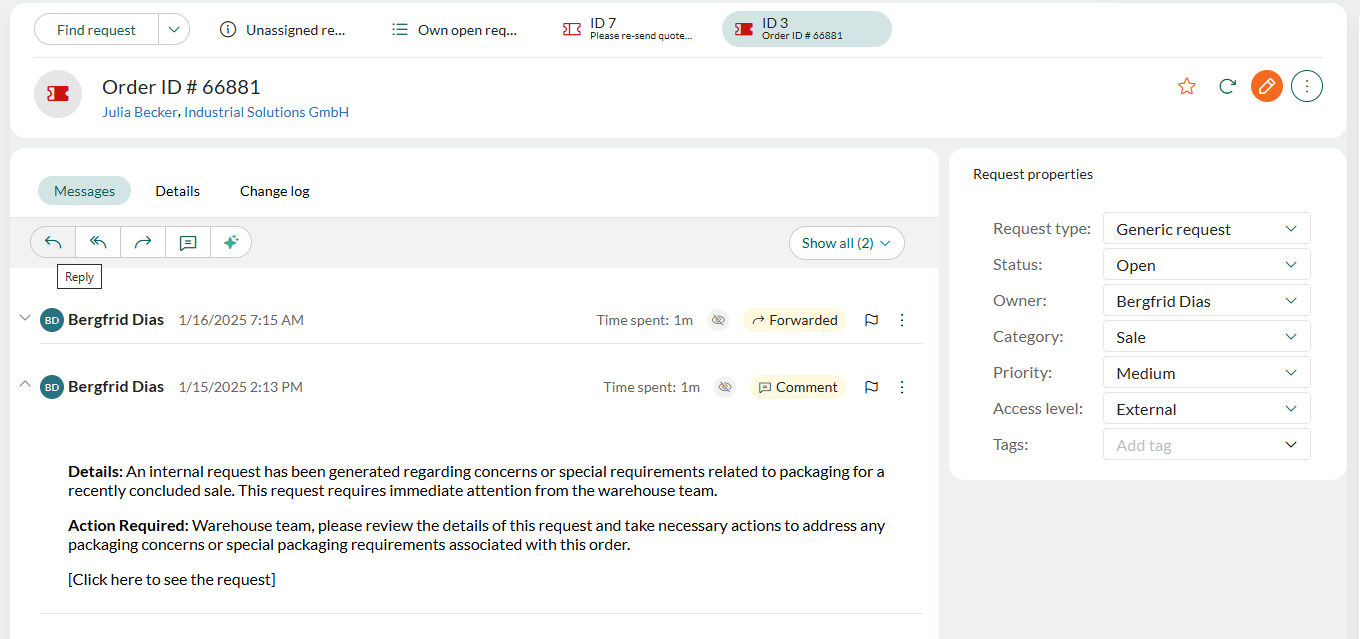
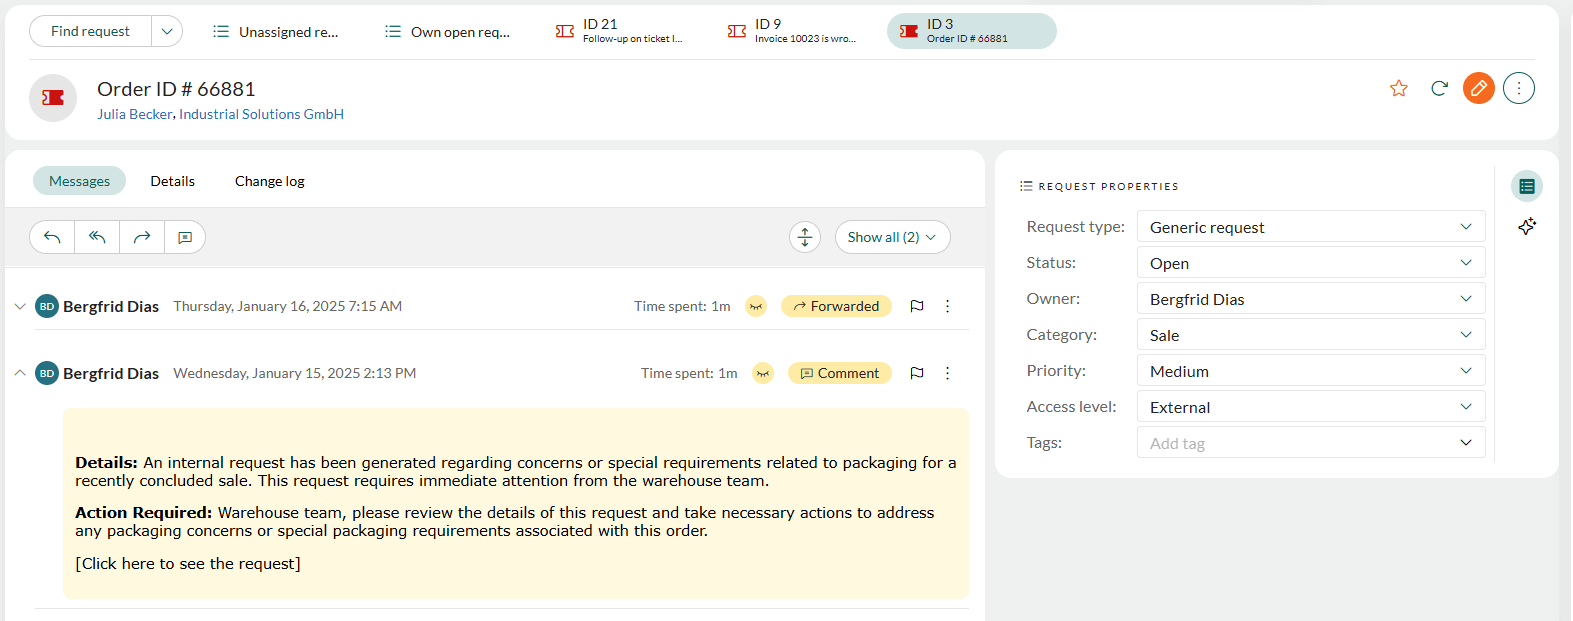
#2528 minor v11 changes in request UI (#2571)
* #2528 Add screenshot of request message filtering dropdown

* #2528 Update screenshots - reply to request

---------

diff --git a/docs/en/request/dev/index.md b/docs/en/request/dev/index.md
@@ -3,17 +3,15 @@ uid: request-overview
 title: Requests
 description: How to manage requests and enquiries in SuperOffice - create internal and external requests; respond to incoming enquiries; obtain an overview of the statuses of all requests in the CRM system.
 keywords: Service, ticket, request, inquiry, tag, category, priority, escalation, reply template, parse
-author: Bergfrid Dias
-date: 07.15.2025
-version: 10.5
+author: digitaldiina
+date: 11.28.2025
+version: 11.7
 content_type: concept
 index: true
 redirect_from: /en/request/overview
 ---
 
 # Requests
-
-![Request screen -screenshot][img1]
 
 [!include[License requirement](../../../../common/includes/req-service-essentials.md)]
 
@@ -237,6 +235,3 @@ Some parser variables that exist will not be described. These are present only f
 [23]: ../../knowledge-base/learn/reply-templates/template-variables.md#user
 [24]: ../../knowledge-base/learn/reply-templates/template-variables.md#ticket
 [25]: ../../knowledge-base/learn/reply-templates/template-variables.md#config
-
-<!-- Referenced images -->
-[img1]: ../../../media/loc/en/request/request-screen.png

diff --git a/docs/de/request/learn/flag-message.md b/docs/de/request/learn/flag-message.md
@@ -3,9 +3,9 @@ uid: help-de-request-message-flag
 title: Nachrichten nachverfolgen
 description: So behalten Sie den Überblick über Nachrichten in einer Anfrage
 keywords: Anfrage, Nachricht, Markierung, Kennzeichnung, Flagge
-author: Hanne Gunnarsson
-date: 02.11.2025
-version: 10.5.2
+author: digitaldiina
+date: 11.28.2025
+version: 11.7
 content_type: howto
 license: serviceessentials
 audience: person
@@ -32,6 +32,8 @@ Um das Auffinden und Sortieren mehrerer Nachrichten in einer Anfrage zu erleicht
 1. Wechseln Sie zur Registerkarte **Nachrichten**.
 1. Klicken Sie oben rechts auf die **Filterliste** und wählen Sie einen Filter aus. Die Nachrichten werden entsprechend gefiltert.
 
+![Options to filter list of messages on a request -screenshot][img1]
+
 ## Verwandte Inhalte
 
 * [Anfrage erstellen][2]
@@ -43,3 +45,6 @@ Um das Auffinden und Sortieren mehrerer Nachrichten in einer Anfrage zu erleicht
 [2]: create.md
 [3]: reply.md
 [4]: edit-message.md
+
+<!-- Referenced images -->
+[img1]: ../../../media/loc/en/request/filter-messages.png

diff --git a/docs/nl/request/learn/flag-message.md b/docs/nl/request/learn/flag-message.md
@@ -3,10 +3,11 @@ uid: help-nl-request-message-flag
 title: Berichten bijhouden
 description: Hoe u berichten in een verzoek kunt markeren en filteren
 keywords: verzoek, bericht, markeren, vlag
-author: Hanne Gunnarsson
-date: 03.14.2025
-version: 10.5.2
+author: digitaldiina
+date: 11.28.2025
+version: 11.7
 content_type: howto
+license: serviceessentials
 audience: person
 audience_tooltip: SuperOffice Service
 language: nl
@@ -31,6 +32,8 @@ Om het gemakkelijker te maken om meerdere berichten in een verzoek te vinden en 
 1. Klik op het tabblad **Berichten**.
 1. Klik in de rechterbovenhoek op de filterlijst en selecteer een filter. De berichten worden gefilterd.
 
+![Options to filter list of messages on a request -screenshot][img1]
+
 ## Gerelateerde inhoud
 
 * [Verzoek maken][2]
@@ -42,3 +45,6 @@ Om het gemakkelijker te maken om meerdere berichten in een verzoek te vinden en 
 [2]: create.md
 [3]: reply.md
 [4]: edit-message.md
+
+<!-- Referenced images -->
+[img1]: ../../../media/loc/en/request/filter-messages.png

diff --git a/docs/sv/request/learn/flag-message.md b/docs/sv/request/learn/flag-message.md
@@ -3,9 +3,9 @@ uid: help-sv-request-message-flag
 title: Hålla koll på meddelanden
 description: Hålla koll på meddelanden
 keywords: filtrera meddelanden, flaggknappen, ärende, meddelande, flaggat, flagga
-author: Bergfrid Dias
-date: 02.25.2025
-version: 10.5.2
+author: digitaldiina
+date: 11.28.2025
+version: 11.7
 content_type: howto
 license: serviceessentials
 audience: person
@@ -32,6 +32,8 @@ För att göra det enklare att hitta och sortera flera meddelanden i ett ärende
 1. Klicka på fliken **Meddelanden**.
 1. Klicka på filterlistan i det övre högra hörnet och välj ett filter. Meddelandena filtreras.
 
+![Options to filter list of messages on a request -screenshot][img1]
+
 ## Relaterat innehåll
 
 * [Skapa ärende][2]
@@ -43,3 +45,6 @@ För att göra det enklare att hitta och sortera flera meddelanden i ett ärende
 [2]: create.md
 [3]: reply.md
 [4]: edit-message.md
+
+<!-- Referenced images -->
+[img1]: ../../../media/loc/en/request/filter-messages.png

diff --git a/docs/no/request/learn/flag-message.md b/docs/no/request/learn/flag-message.md
@@ -3,9 +3,9 @@ uid: help-no-request-message-flag
 title: Holde oversikt over meldinger
 description: Holde oversikt over meldinger
 keywords: sak, melding, flagg
-author: Hanne Gunnarsson
-date: 02.04.2025
-version: 10.5.1
+author: digitaldiina
+date: 11.28.2025
+version: 11.7
 content_type: howto
 license: serviceessentials
 audience: person
@@ -32,6 +32,8 @@ For å gjøre det enklere å finne og sortere flere meldinger i en sak, kan du f
 1. Klikk på fanen **Meldinger**.
 1. I øvre høyre hjørne klikker du på filterlisten og velger et filter. Meldingene filtreres.
 
+![Options to filter list of messages on a request -screenshot][img1]
+
 ## Relatert innhold
 
 * [Opprette sak][2]
@@ -43,3 +45,6 @@ For å gjøre det enklere å finne og sortere flere meldinger i en sak, kan du f
 [2]: create.md
 [3]: reply.md
 [4]: edit-message.md
+
+<!-- Referenced images -->
+[img1]: ../../../media/loc/en/request/filter-messages.png

diff --git a/docs/da/request/learn/flag-message.md b/docs/da/request/learn/flag-message.md
@@ -3,9 +3,9 @@ uid: help-da-request-message-flag
 title: Hold styr på meddelelser
 description: Hold styr på meddelelser
 keywords: sag, meddelelse, flag
-author: Bergfrid Dias
-date: 03.07.2025
-version: 10.5.2
+author: digitaldiina
+date: 11.28.2025
+version: 11.7
 content_type: howto
 license: serviceessentials
 audience: person
@@ -32,6 +32,8 @@ Hvis du vil gøre det nemmere at finde og sortere flere meddelelser i en sag, ka
 1. Klik på fanen **Meddelelser**.
 1. Klik på filterlisten i øverste højre hjørne, og vælg et filter. Meddelelserne filtreres.
 
+![Options to filter list of messages on a request -screenshot][img1]
+
 ## Relateret indhold
 
 * [Opret sag][2]
@@ -43,3 +45,6 @@ Hvis du vil gøre det nemmere at finde og sortere flere meddelelser i en sag, ka
 [2]: create.md
 [3]: reply.md
 [4]: edit-message.md
+
+<!-- Referenced images -->
+[img1]: ../../../media/loc/en/request/filter-messages.png

diff --git a/docs/en/request/learn/flag-message.md b/docs/en/request/learn/flag-message.md
@@ -3,9 +3,9 @@ uid: help-en-request-message-flag
 title: Keep track of messages
 description: Keep track of messages
 keywords: request, message, flag
-author: Hanne Gunnarsson
-date: 01.15.2025
-version: 10.5.1
+author: digitaldiina
+date: 11.28.2025
+version: 11.7
 content_type: howto
 license: serviceessentials
 audience: person
@@ -32,6 +32,8 @@ To make it easier to find and sort multiple messages in a request, you can flag 
 1. Click the **Messages** tab.
 1. In the upper right corner, click the filter list and select a filter. The messages are filtered.
 
+![Options to filter list of messages on a request -screenshot][img1]
+
 ## Related content
 
 * [Create request][2]
@@ -43,3 +45,6 @@ To make it easier to find and sort multiple messages in a request, you can flag 
 [2]: create.md
 [3]: reply.md
 [4]: edit-message.md
+
+<!-- Referenced images -->
+[img1]: ../../../media/loc/en/request/filter-messages.png

diff --git a/docs/sv/request/learn/reply.md b/docs/sv/request/learn/reply.md
@@ -3,9 +3,9 @@ uid: help-sv-request-reply
 title: Svara kontakt
 description: I den här guiden får du lära dig hur du svarar på alla inkommande ärenden i SuperOffice.
 keywords: ärende, svara på ärende, svara, svara alla, lägga till meddelande, lägga till kommentar, kommentar, internt, externt, ärende,
-author: Bergfrid Dias
-date: 09.01.2025
-version: 11.3
+author: digitaldiina
+date: 11.28.2025
+version: 11.7
 content_type: howto
 license: serviceessentials
 audience: person

diff --git a/docs/no/request/learn/reply.md b/docs/no/request/learn/reply.md
@@ -3,9 +3,9 @@ uid: help-no-request-reply
 title: Svar til person
 description: I denne veiledningen lærer du hvordan du svarer på alle innkommende saker i SuperOffice.
 keywords: svare på sak, svare, svar til alle, legge til melding, legge til kommentar, kommentar, intern, ekstern, sak
-author: Bergfrid Dias, Kirsti Aakerholt
-date: 09.01.2025
-version: 11.3
+author: digitaldiina
+date: 11.28.2025
+version: 11.7
 content_type: howto
 license: serviceessentials
 audience: person

diff --git a/docs/da/request/learn/reply.md b/docs/da/request/learn/reply.md
@@ -3,9 +3,9 @@ uid: help-da-request-reply
 title: Svar til person
 description: I denne guide lærer du, hvordan du besvarer alle indgående sager i SuperOffice.
 keywords: svar på sag, svar, svar til alle, tilføj meddelelse, tilføj kommentar, kommentar, intern, ekstern, sag
-author: Bergfrid Dias, Kirsti Aakerholt
-date: 09.01.2025
-version: 11.3
+author: digitaldiina
+date: 11.28.2025
+version: 11.7
 content_type: howto
 license: serviceessentials
 audience: person

diff --git a/docs/en/request/learn/reply.md b/docs/en/request/learn/reply.md
@@ -3,9 +3,9 @@ uid: help-en-request-reply
 title: Reply to contact
 description: In this guide you will learn how to reply to all incoming requests in SuperOffice.
 keywords: reply to request, reply, reply all, add message, add comment, comment, internal, external
-author: Bergfrid Dias, Kirsti Aakerholt
-date: 09.01.2025
-version: 11.3
+author: digitaldiina
+date: 11.28.2025
+version: 11.7
 content_type: howto
 license: serviceessentials
 audience: person

diff --git a/docs/de/request/learn/reply.md b/docs/de/request/learn/reply.md
@@ -3,9 +3,9 @@ uid: help-de-request-reply
 title: Einer Person antworten
 description: In dieser Anleitung lernen Sie, wie Sie alle eingehenden Anfragen in SuperOffice beantworten können.
 keywords: Anfrage, Antwortvorlage, Antwort, Antworten, Kommentar, intern, extern
-author: Bergfrid Dias
-date: 09.01.2025
-version: 11.3
+author: digitaldiina
+date: 11.28.2025
+version: 11.7
 content_type: howto
 license: serviceessentials
 audience: person
